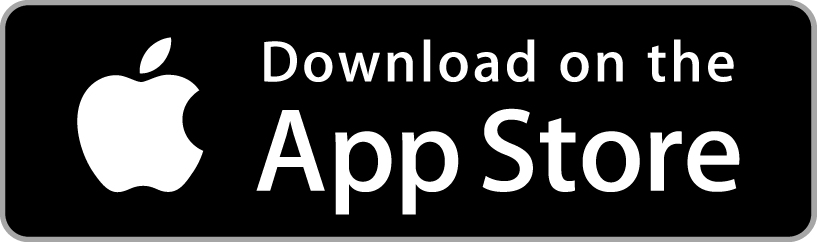
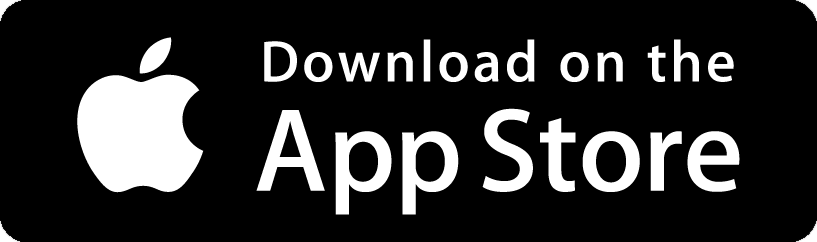
Add link to appstore version

Changed region(s): [[0.0, 0.0, 1.0, 1.0]]

diff --git a/games/infinimath.html b/games/infinimath.html
@@ -84,12 +84,11 @@
 						<img class="store-button" alt="Get it on Google Play" src="https://play.google.com/intl/en_us/badges/images/generic/en-play-badge.png" />
 					</a>
 				</li>
-				<!--<li>-->
-					<!--<a class="store-link" href="https://itunes.apple.com/app/id000000000">-->
-						<!--<img class="store-button" alt="Download on the App Store" src="infinimath/images/app_store_badge_us_827x242.png" />-->
-					<!--</a>-->
-				<!--</li>-->
-				<li><a href="#gallery" class="button disabled icon fa-apple">Coming soon</a></li>
+				<li>
+					<a class="store-link" href="https://itunes.apple.com/app/id1089290854">
+						<img class="store-button" alt="Download on the App Store" src="infinimath/images/app_store_badge_us_827x242.png" />
+					</a>
+				</li>
 			</ul>
 		</section>
 
